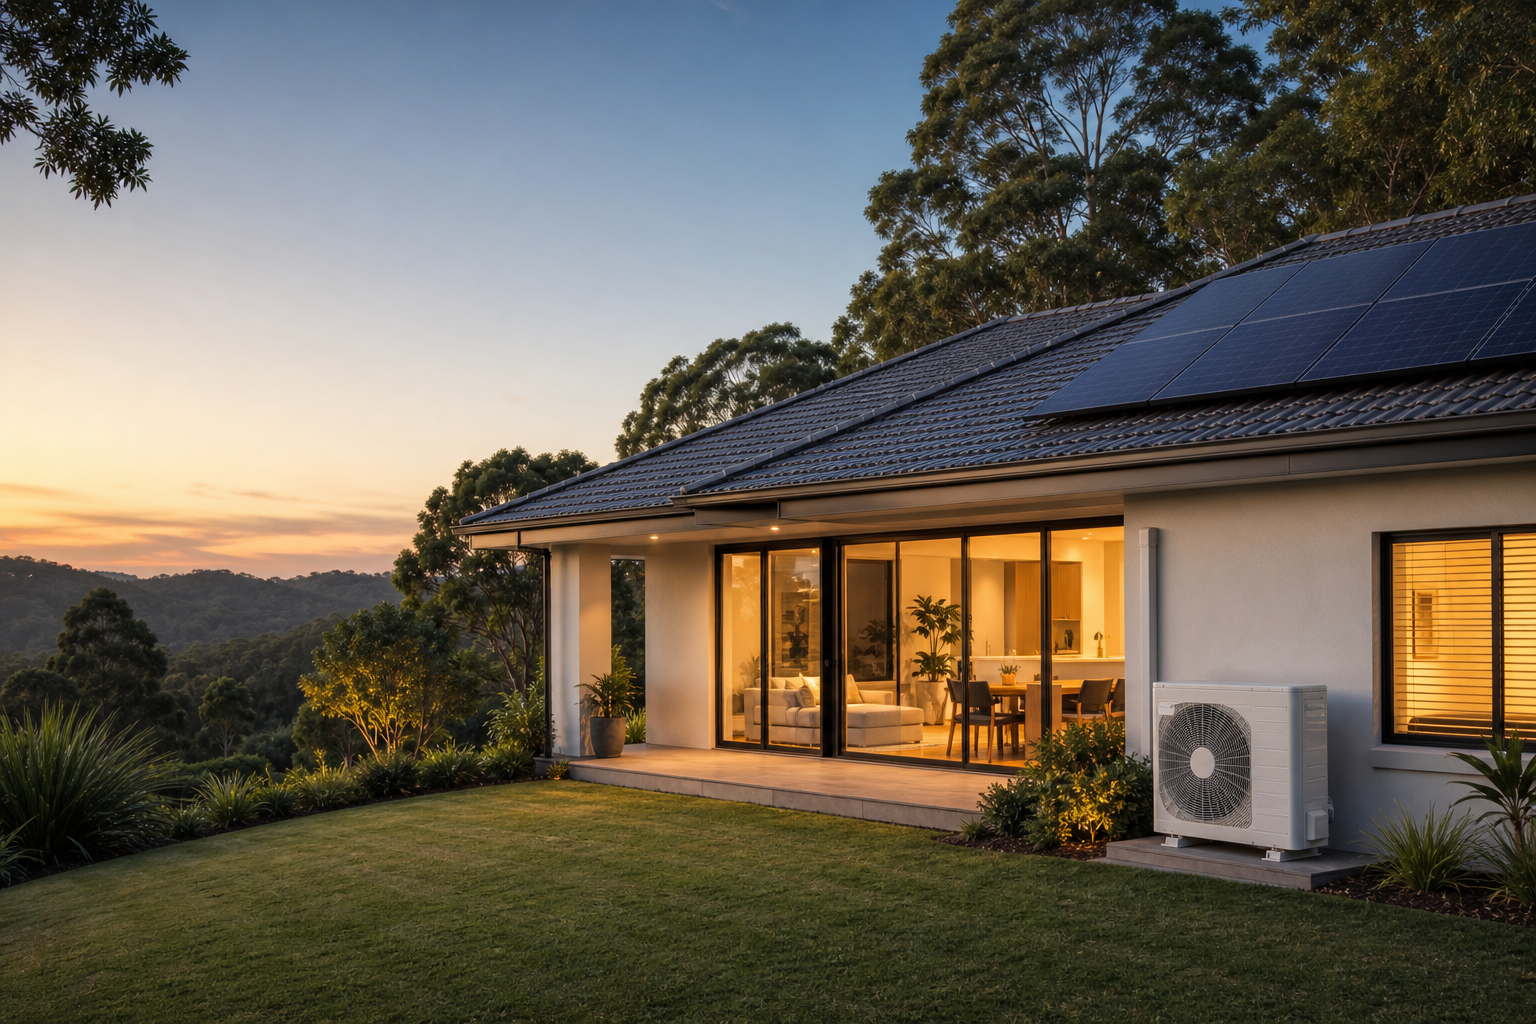
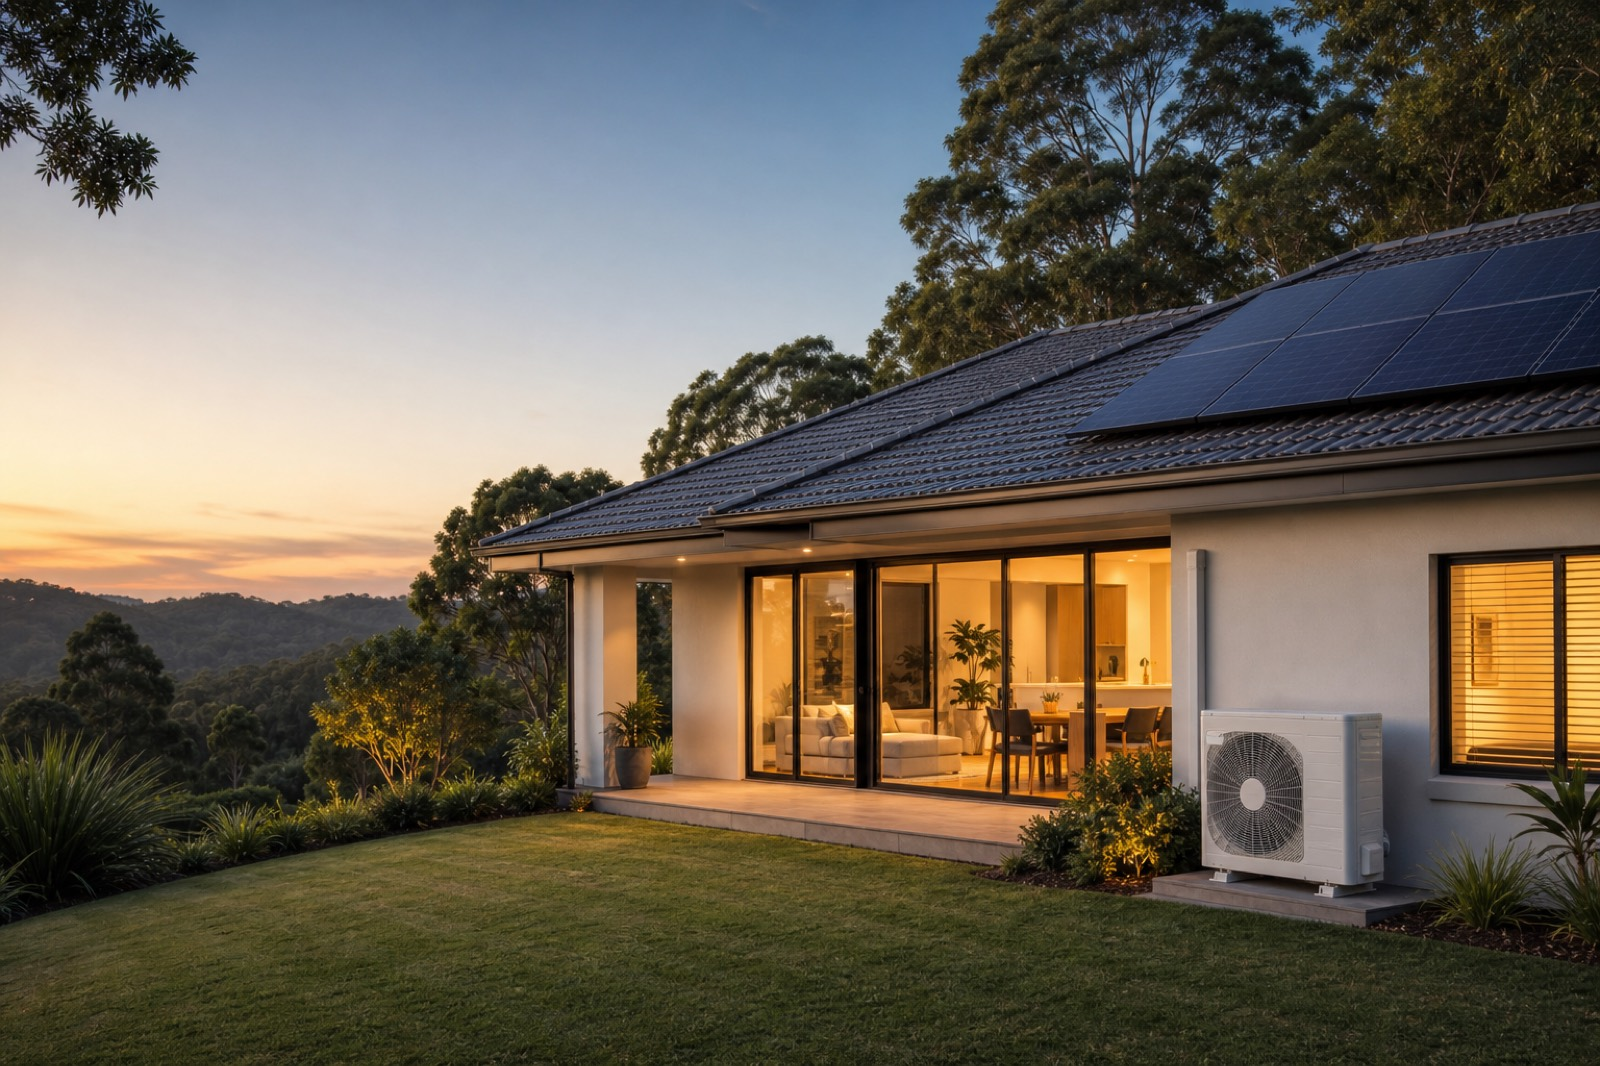
Preload and compress hero image for faster first paint
Add early image preload, switch hero to a high-priority picture element, and shrink the asset with WebP/JPEG.

diff --git a/css/styles.css b/css/styles.css
@@ -213,10 +213,20 @@ ul { list-style: none; }
   position: absolute;
   inset: 0;
   z-index: 0;
-  background-image: url('../images/hero-home.jpg');
-  background-repeat: no-repeat;
-  background-position: center center;
-  background-size: cover;
+  overflow: hidden;
+}
+.hero-home-bg img,
+.hero-home-bg picture,
+.hero-home-bg picture img {
+  width: 100%;
+  height: 100%;
+  object-fit: cover;
+  object-position: center center;
+  display: block;
+}
+.hero-home-bg picture {
+  position: absolute;
+  inset: 0;
 }
 .hero-home-bg::after {
   display: none;
@@ -785,8 +795,9 @@ ul { list-style: none; }
   .hero-home { min-height: 560px; }
   .hero-home-inner { padding: 48px 20px; }
   .hero-home .hero-copy { max-width: 100%; }
-  .hero-home-bg {
-    background-position: center 30%;
+  .hero-home-bg img,
+  .hero-home-bg picture img {
+    object-position: center 30%;
   }
   .hero-home-bg::after {
     display: none;

diff --git a/index.html b/index.html
@@ -7,6 +7,7 @@
   <meta name="keywords" content="VEU air conditioning rebate Victoria, heat pump hot water Melbourne, solar panel installation Melbourne, solar battery Victoria">
   <meta name="google-site-verification" content="googled605a27d736f216c">
   <title>SparkGrid Energy — Smarter Energy Upgrades for Victorian Homes</title>
+  <link rel="preload" as="image" href="images/hero-home.webp" type="image/webp" fetchpriority="high">
   <link rel="preconnect" href="https://fonts.googleapis.com">
   <link rel="preconnect" href="https://fonts.gstatic.com" crossorigin>
   <link href="https://fonts.googleapis.com/css2?family=Inter:wght@400;500;600;700;800&display=swap" rel="stylesheet">
@@ -18,7 +19,7 @@
   <header class="header">
     <div class="container header-inner">
       <a href="index.html" class="logo">
-        <img src="images/logo.png" alt="SparkGrid Energy">
+        <img src="images/logo.png" alt="SparkGrid Energy" width="52" height="52" decoding="async">
         <div class="logo-text">
           <span class="brand-main">SPARK GRID</span>
           <span class="brand-energy">ENERGY</span>
@@ -64,7 +65,12 @@
   </header>
 
   <section class="hero hero-home">
-    <div class="hero-home-bg" aria-hidden="true"></div>
+    <div class="hero-home-bg" aria-hidden="true">
+      <picture>
+        <source srcset="images/hero-home.webp" type="image/webp">
+        <img src="images/hero-home.jpg" alt="" width="1600" height="1066" fetchpriority="high" decoding="async">
+      </picture>
+    </div>
     <div class="container hero-home-inner">
       <div class="hero-copy">
         <h1>Smarter Energy<br><span>Better Living</span></h1>